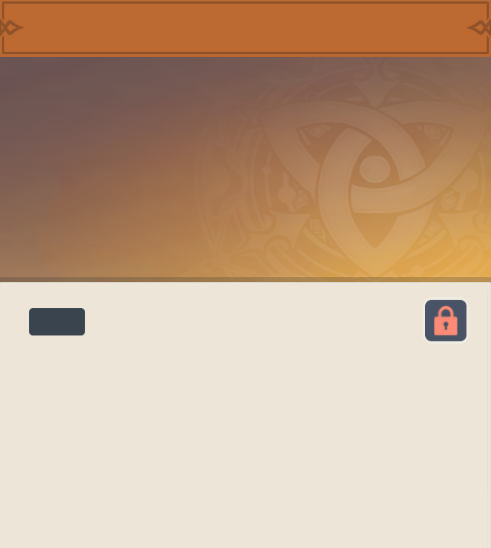
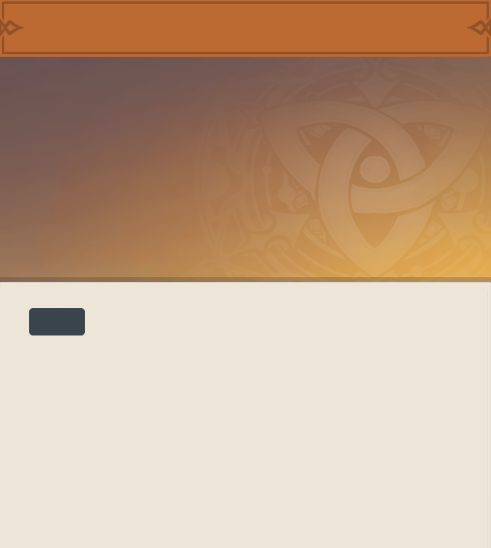
update character cards

Changed region(s): [[0.8554, 0.5274, 0.9776, 0.6515]]

diff --git a/src/components/CharacterCard/CharacterCard.tsx b/src/components/CharacterCard/CharacterCard.tsx
@@ -25,6 +25,7 @@ import {
   toEnkaUrl,
   ascensionToLevel,
   getGenderFromIcon,
+  delay,
 } from "../../utils/helpers";
 import { REAL_SUBSTAT_VALUES, STAT_NAMES } from "../../utils/substats";
 import { StatIcon } from "../StatIcon";
@@ -113,6 +114,7 @@ export const CharacterCard: React.FC<CharacterCardProps> = ({
   // const [enkaStyle, setEnkaStyle] = useState(false);
   const [namecardBg, setNamecardBg] = useState(false);
   const [simplifyColors, setSimplifyColors] = useState(false);
+  const [displayBuildName, setDisplayBuildName] = useState(true);
   const [privacyFlag, setPrivacyFlag] = useState(false);
   const [toggleConfigure, setToggleConfigure] = useState(false);
   const [generating, setGenerating] = useState<
@@ -141,6 +143,51 @@ export const CharacterCard: React.FC<CharacterCardProps> = ({
 
   const location = useLocation();
   const DEBUG_MODE = location.search?.includes("debug");
+
+  // load from local storage
+  useEffect(() => {
+    const savedObj = JSON.parse(localStorage.getItem("cardSettings") ?? "{}");
+
+    if (savedObj.displayBuildName !== displayBuildName) {
+      setDisplayBuildName(savedObj.displayBuildName || displayBuildName);
+    }
+
+    if (savedObj.simplifyColors !== simplifyColors) {
+      setSimplifyColors(savedObj.simplifyColors || simplifyColors);
+    }
+
+    if (savedObj.namecardBg !== namecardBg) {
+      setNamecardBg(savedObj.namecardBg || namecardBg);
+    }
+
+    if (savedObj.privacyFlag !== privacyFlag) {
+      setPrivacyFlag(savedObj.privacyFlag || privacyFlag);
+    }
+  }, []);
+
+  // save to local storage
+  useEffect(() => {
+    const oldObj = JSON.parse(localStorage.getItem("cardSettings") ?? "{}");
+
+    if (oldObj.displayBuildName !== displayBuildName) {
+      oldObj.displayBuildName = displayBuildName;
+    }
+
+    if (oldObj.simplifyColors !== simplifyColors) {
+      oldObj.simplifyColors = simplifyColors;
+    }
+
+    if (oldObj.namecardBg !== namecardBg) {
+      oldObj.namecardBg = namecardBg;
+    }
+
+    if (oldObj.privacyFlag !== privacyFlag) {
+      oldObj.privacyFlag = privacyFlag;
+    }
+
+    const newObj = { ...oldObj };
+    localStorage.setItem("cardSettings", JSON.stringify(newObj));
+  }, [displayBuildName, simplifyColors, namecardBg, privacyFlag]);
 
   const handleToggleModal = (event: React.MouseEvent<HTMLElement>) => {
     setShowPreviewModal((prev) => !prev);
@@ -1012,7 +1059,11 @@ export const CharacterCard: React.FC<CharacterCardProps> = ({
     () => (
       <>
         <div key="character-name" className="character-name">
-          <div>{translate(row.name, getGenderFromIcon(row.icon))}</div>
+          <div>
+            {displayBuildName
+              ? row.type || row.name
+              : translate(row.name, getGenderFromIcon(row.icon))}
+          </div>
           {!privacyFlag && (
             <div className="character-nickname">{row.owner.nickname}</div>
           )}
@@ -1046,7 +1097,10 @@ export const CharacterCard: React.FC<CharacterCardProps> = ({
             const constImg = chartsData?.assets?.constellations?.[i];
             const isActivated = row.constellation >= i + 1;
             return (
-              <div key={`${constImg}-${i}`} className={isActivated ? "activated" : ""}>
+              <div
+                key={`${constImg}-${i}`}
+                className={isActivated ? "activated" : ""}
+              >
                 {!isActivated ? (
                   <span className="const-locked">
                     <FontAwesomeIcon
@@ -1074,7 +1128,14 @@ export const CharacterCard: React.FC<CharacterCardProps> = ({
         </div>
       </>
     ),
-    [row, privacyFlag, talentNAProps, talentSkillProps, talentBurstProps]
+    [
+      row,
+      privacyFlag,
+      talentNAProps,
+      talentSkillProps,
+      talentBurstProps,
+      displayBuildName,
+    ]
   );
 
   // const handleEffectsIteration = () => {
@@ -1204,6 +1265,8 @@ export const CharacterCard: React.FC<CharacterCardProps> = ({
       },
     };
 
+    const genDelay = 100; // 100ms
+
     try {
       if (mode === "download") {
         setGenerating("downloading");
@@ -1220,6 +1283,7 @@ export const CharacterCard: React.FC<CharacterCardProps> = ({
         //   // cacheBust: true,
         // });
 
+        await delay(genDelay);
         const canvas = await html2canvas(cardNode, _opts);
         const dataUrl = canvas.toDataURL("image/png", 1.0);
 
@@ -1245,6 +1309,7 @@ export const CharacterCard: React.FC<CharacterCardProps> = ({
         // setImagePreviewBlob(dataUrl);
         // handleToggleModal(event);
 
+        await delay(genDelay);
         const canvas = await html2canvas(cardNode, _opts);
 
         canvas.toBlob((blob) => {
@@ -1382,14 +1447,19 @@ export const CharacterCard: React.FC<CharacterCardProps> = ({
                   </div>
                 </div>
                 <div className="card-checkboxes ">
-                  {/* <div style={{ color: "gray" }}>
-                Enka style
-                <input
-                  type="checkbox"
-                  onChange={(e: any) => setEnkaStyle(!!e.target.checked)}
-                  disabled
-                />
-              </div> */}
+                  <div>
+                    <label htmlFor={`${getBuildId(row)}-bname`}>
+                      Display build name
+                    </label>
+                    <input
+                      id={`${getBuildId(row)}-bname`}
+                      type="checkbox"
+                      checked={displayBuildName}
+                      onChange={(e: any) =>
+                        setDisplayBuildName(!!e.target.checked)
+                      }
+                    />
+                  </div>
                   <div>
                     <label htmlFor={`${getBuildId(row)}-sc`}>
                       Simplify colors

diff --git a/src/components/LanguageSwitcher/LanguageSwitcher.tsx b/src/components/LanguageSwitcher/LanguageSwitcher.tsx
@@ -35,13 +35,18 @@ export const LanguageSwitcher: React.FC = () => {
   const { setLanguage, language } = useContext(TranslationContext);
   const dropdownRef = useRef<HTMLAnchorElement>(null);
 
+  const delayedBlur = () => setTimeout(() => dropdownRef?.current?.blur(), 1);
+
   const languageList = reorderedLanguages.map((name) => (
     <div
       className={language === name ? "current-langauge" : ""}
       key={name}
       onMouseDown={() => {
         setLanguage(name);
-        dropdownRef?.current?.blur();
+        delayedBlur();
+      }}
+      onClick={() => {
+        delayedBlur();
       }}
     >
       {KEY_TO_FULL[name]}
@@ -52,7 +57,7 @@ export const LanguageSwitcher: React.FC = () => {
     <div className="language-switcher">
       <a
         ref={dropdownRef}
-        href=""
+        href="#language"
         onMouseDown={(e) => {
           const isMain =
             dropdownRef?.current === e.target ||
@@ -62,7 +67,7 @@ export const LanguageSwitcher: React.FC = () => {
           const isActive = dropdownRef?.current === document.activeElement;
           if (!isActive) return;
 
-          setTimeout(() => dropdownRef?.current?.blur(), 0);
+          delayedBlur();
         }}
         onClick={(e) => {
           e.preventDefault();

diff --git a/src/components/CharacterCard/style.scss b/src/components/CharacterCard/style.scss
@@ -364,6 +364,12 @@
       gap: 30px;
       // width: fit-content;
       position: relative;
+      > div {
+        max-width: 400px;
+        overflow: hidden;
+        text-overflow: ellipsis;
+        white-space: nowrap;
+      }
       .character-nickname {
         font-size: 14px;
         z-index: 2;
@@ -882,16 +888,17 @@
       }
       .compact-artifact-bg {
         position: absolute;
-        content: "";
+        // content: "";
         height: 100%;
         width: 100%;
-        background-image: var(--elemental-bg);
+        // background-image: var(--elemental-bg);
         background-image: var(--character-namecard-url);
         background-position-y: bottom;
         background-repeat: repeat;
         // filter: brightness(0.55) blur(15px);
         opacity: 0.35;
-        background-size: 10000%;
+        // background-size: 10000%;
+        background-size: initial !important;
       }
     }
   }

diff --git a/src/components/Artifact/Artifact.tsx b/src/components/Artifact/Artifact.tsx
@@ -40,15 +40,28 @@ export const Artifact: React.FC<ArtifactProps> = ({
   const artifactBg = {
     5: ArtifactBackground,
     // @TODO: add more background to artifacts
+    // 4: ArtifactBackground,
+    // 3: ArtifactBackground,
+    // 2: ArtifactBackground,
+    // 1: ArtifactBackground,
     4: NoArtifact,
     3: NoArtifact,
     2: NoArtifact,
     1: NoArtifact,
   }[artifact?.stars];
 
+  // const artifactHue = {
+  //   5: '0deg',
+  //   4: '-120deg',
+  //   3: '-200deg',
+  //   2: '0deg',
+  //   1: '0deg',
+  // }[artifact?.stars]
+
   const style = {
     "--artifact-bg": `url(${artifactBg})`,
     "--artifact-width": `${width}px`,
+    // "filter": `hue-rotate(${artifactHue})`
   } as React.CSSProperties;
 
   const mainStatKey = artifact.mainStatKey

diff --git a/src/pages/ProfilePage/ProfilePage.tsx b/src/pages/ProfilePage/ProfilePage.tsx
@@ -60,8 +60,8 @@ import { TitleContext } from "../../context/TitleProvider/TitleProviderContext";
 import { getSessionIdFromCookie } from "../../utils/helpers";
 import { ArtifactSettingsModal } from "./ArtifactSettingsModal";
 import { AdsComponentManager } from "../../components/AdsComponentManager";
-import "./style.scss";
 import { TranslationContext } from "../../context/TranslationProvider/TranslationProviderContext";
+import "./style.scss";
 
 export const ProfilePage: React.FC = () => {
   const [showArtifactSettingsModal, setShowArtifactSettingsModal] =

diff --git a/src/pages/AccountsPage/AccountsPage.tsx b/src/pages/AccountsPage/AccountsPage.tsx
@@ -14,13 +14,11 @@ import {
   RegionBadge,
   ARBadge,
   HelpBox,
-  AchievementsBadge,
   NotificationBar,
-  EnkaBadge,
 } from "../../components";
 import { TableColumn } from "../../types/TableColumn";
 import Achievevement from "../../assets/icons/Achievement.webp";
-import DomainBackground from "../../assets/images/Concept_Art_Liyue_Harbor.webp";
+import DomainBackground from "../../assets/images/Grand_Narukami_Shrine_Concept_Art.webp";
 import {
   FETCH_ACCOUNTS_FILTERS_URL,
   FETCH_ACCOUNTS_URL,

diff --git a/src/context/TranslationProvider/TranslationProviderContext.tsx b/src/context/TranslationProvider/TranslationProviderContext.tsx
@@ -147,9 +147,7 @@ const TranslationContextProvider: React.FC<{ children: any }> = ({
     const isNonChina =
       !navigatorLanguage?.startsWith("zh") && navigatorLanguage?.includes("-");
 
-    if (isNonChina) {
-      navigatorLanguage = navigatorLanguage.split("-")[0];
-    }
+    if (isNonChina) navigatorLanguage = navigatorLanguage.split("-")[0];
 
     const languageNotDefined = !languages.includes(navigatorLanguage);
     const defaultLangauge = navigatorLanguage?.startsWith("zh")

diff --git a/public/index.html b/public/index.html
@@ -2,6 +2,8 @@
 <html lang="en">
   <head>
 
+    <!-- AD NETWORK SCRIPT -->
+
     <!-- Venatus Ad Manager - Install in <HEAD> of page -->
     <script
       src="https://hb.vntsm.com/v3/live/ad-manager.min.js"
@@ -29,7 +31,6 @@
 
     <meta charset="utf-8" />
     
-    <!-- @TODO: fav icon stuff -->
     <link rel="icon" href="%PUBLIC_URL%/favicon.ico" />
     <link
       rel="icon"

diff --git a/src/pages/ArtifactsPage/ArtifactsPage.tsx b/src/pages/ArtifactsPage/ArtifactsPage.tsx
@@ -22,7 +22,7 @@ import {
 } from "../../components";
 import { TableColumn } from "../../types/TableColumn";
 
-import DomainBackground from "../../assets/images/domain-background.jpg";
+import DomainBackground from "../../assets/images/Tenshukaku_Concept_Art.webp";
 import {
   FETCH_ARTIFACT_FILTERS_URL,
   getRainbowTextStyle,

diff --git a/src/pages/CategorySelectionPage/CategorySelectionPage.tsx b/src/pages/CategorySelectionPage/CategorySelectionPage.tsx
@@ -1,6 +1,6 @@
 import React, { useContext, useMemo } from "react";
 import { useNavigate } from "react-router-dom";
-import DomainBackground from "../../assets/images/Concept_Art_Liyue_Harbor.webp";
+import DomainBackground from "../../assets/images/Depths_of_Mt._Yougou_Concept_Art.webp";
 import {
   CustomTable,
   HelpBox,

diff --git a/src/context/AdProvider/AdProviderContext.tsx b/src/context/AdProvider/AdProviderContext.tsx
@@ -74,6 +74,7 @@ const AdProviderContextProvider: React.FC<{ children: any }> = ({
     if (adProvider) return;
     setAdProvider("venatus");
 
+    // @TODO: 
     // if (location.search.includes("venatus-test")) {
     //   setAdProvider("venatus");
     // } else {

diff --git a/src/components/Artifact/style.scss b/src/components/Artifact/style.scss
@@ -108,7 +108,7 @@
     opacity: 0.8;
     white-space: nowrap;
     > .substat {
-      width: calc(var(--artifact-width) / 1.11);
+      width: calc(var(--artifact-width) / 1.095);
       display: flex;
       > .substat-name {
         overflow: hidden;
